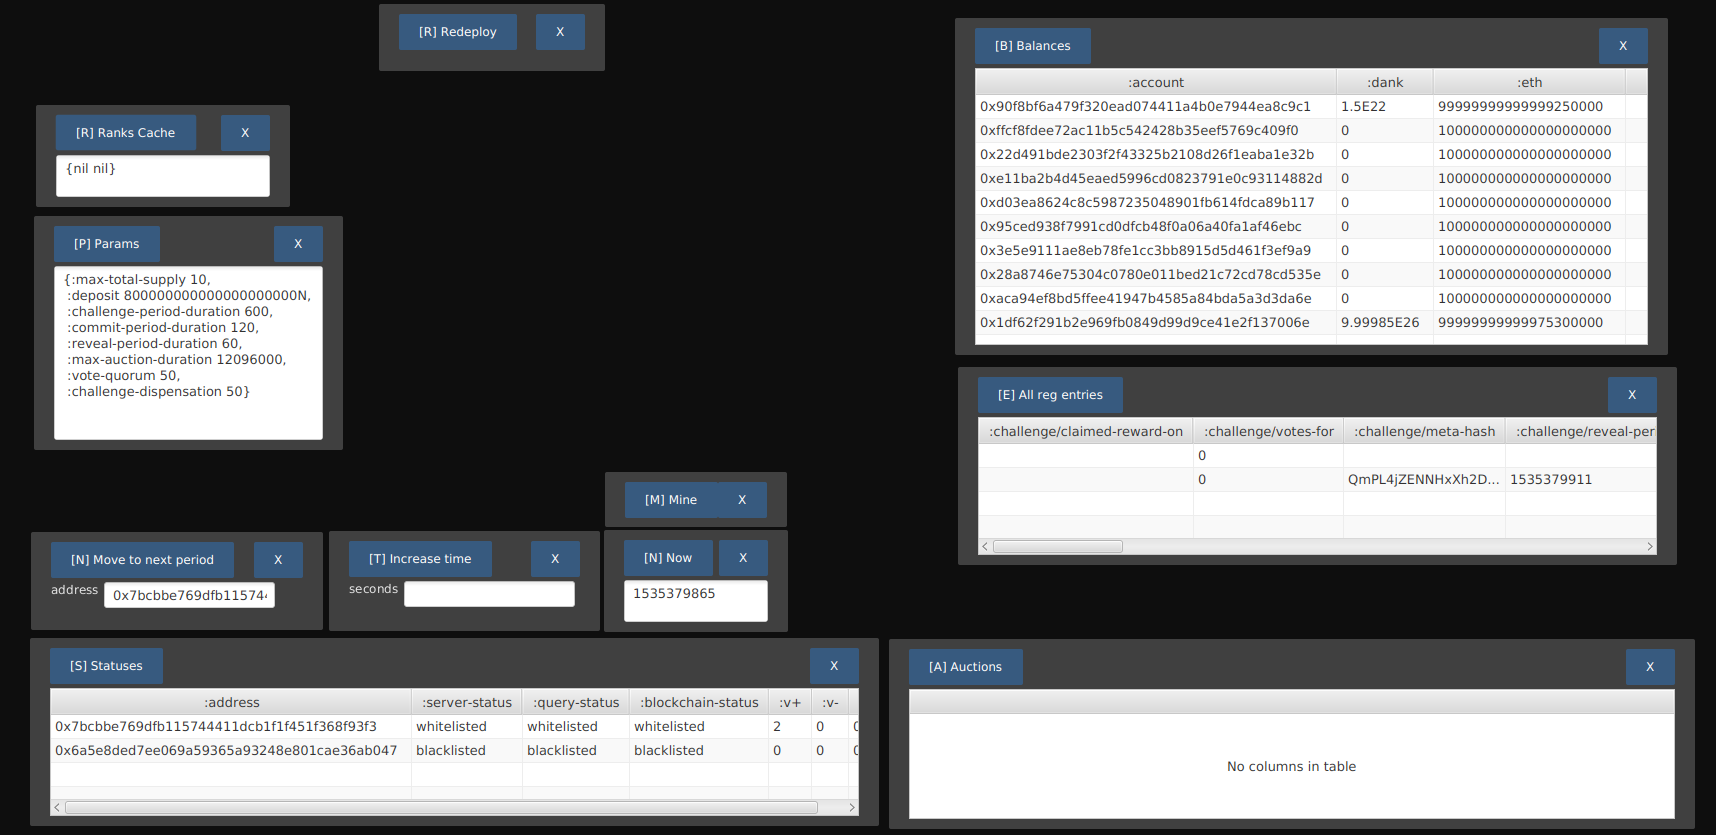
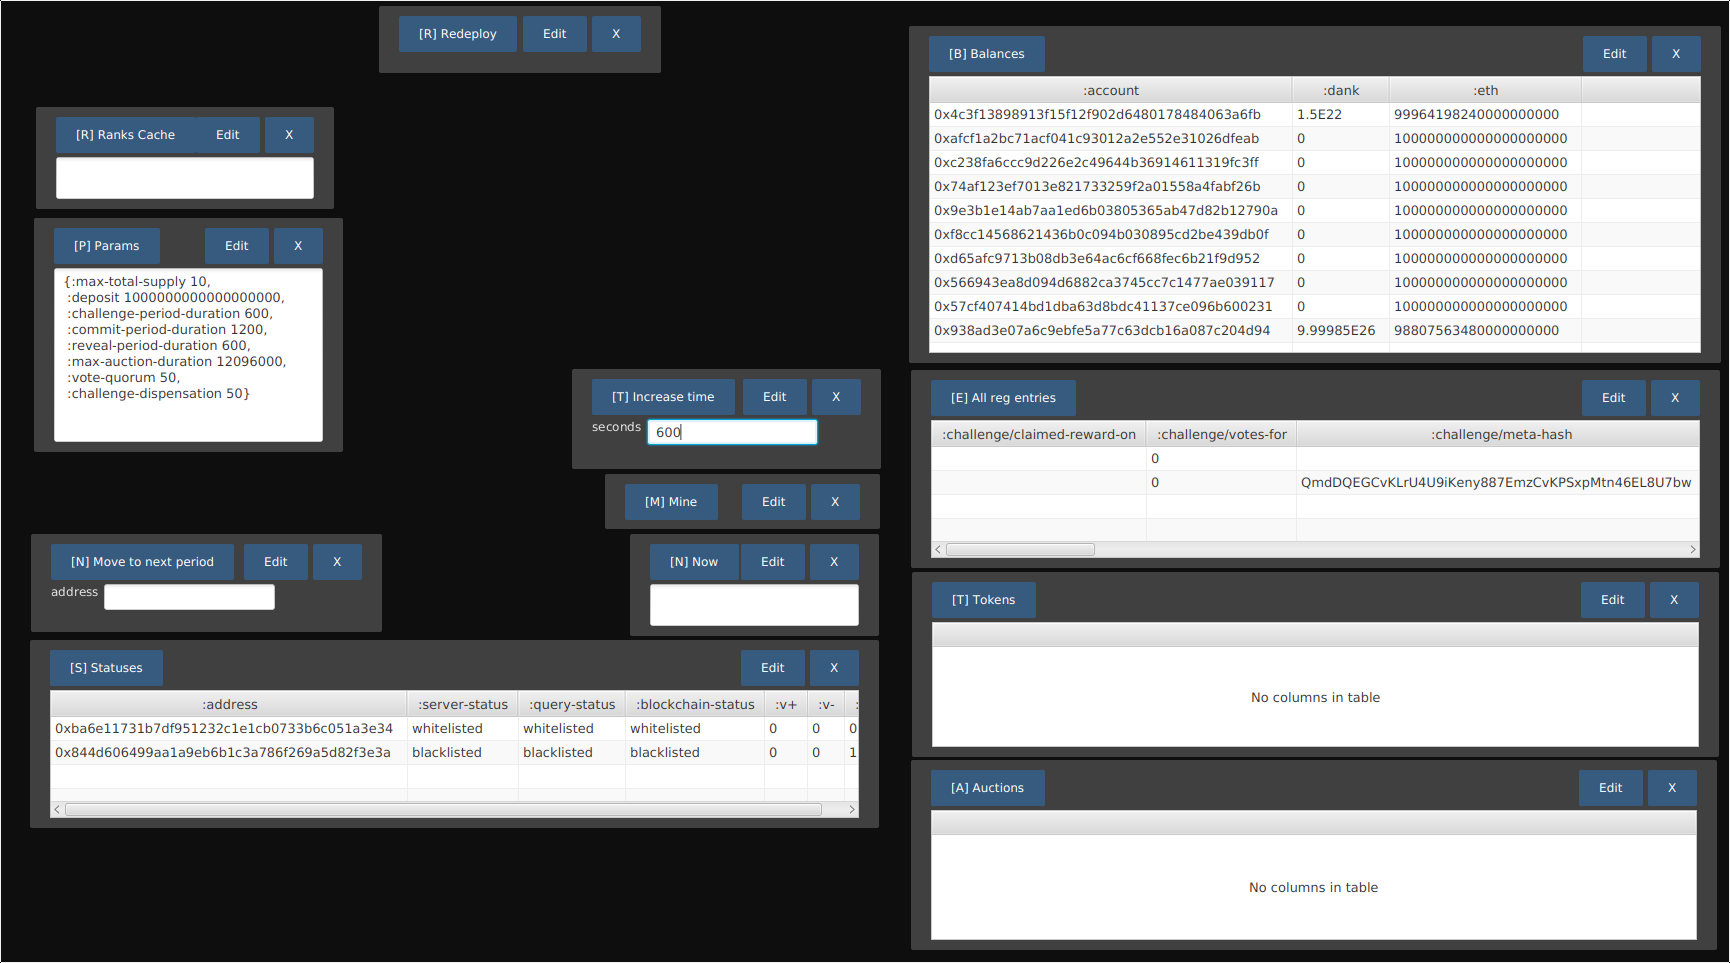
Implement command edition

diff --git a/README.md b/README.md
@@ -2,7 +2,7 @@
 
 Make all those Clojure[Script] repeating repl commands one keystroke away.
 
-Connect to any nrepl server (lein repl, fighwheel nrepl, etc), define some commands and run them with a keystroke.
+Connect to any nrepl server (lein repl, boot repl, fighwheel nrepl, etc), define some commands and run them with a keystroke.
 
 Lots of times when developing or dev testing Clojure[Script] applications I find myself at the repl firing a bunch of commands 
 only with the purpose of checking or changing the state of the app. For example : querying some db tables, checking the state of the cache,
@@ -89,6 +89,18 @@ Everytime you run magic-sheet it searches for that file inside current folder an
 ### Other features
 
 - Clicking on any table cell will automatically put the content in your clipboard.
+- Clicking on Edit button allows you to change your title, code or assigned key.
+
+### How to use it with ClojureScript and figwheel
+
+Figwheel can start a nrepl server if you tell it so. Check figwheels `:nrepl-port`
+
+```clojure 
+(figwheel-sidecar.repl-api/start-figwheel!
+   (-> (figwheel-sidecar.config/fetch-config)
+       (assoc-in [:data :figwheel-options :nrepl-port]  7778))
+    "dev-ui")
+```
 
 ## How does it looks?
 
@@ -96,4 +108,5 @@ Everytime you run magic-sheet it searches for that file inside current folder an
 
 ## Roadmap
 
+- Support multiple connections so you can use your client and server repls at the same time
 - Support other kinds of repls
